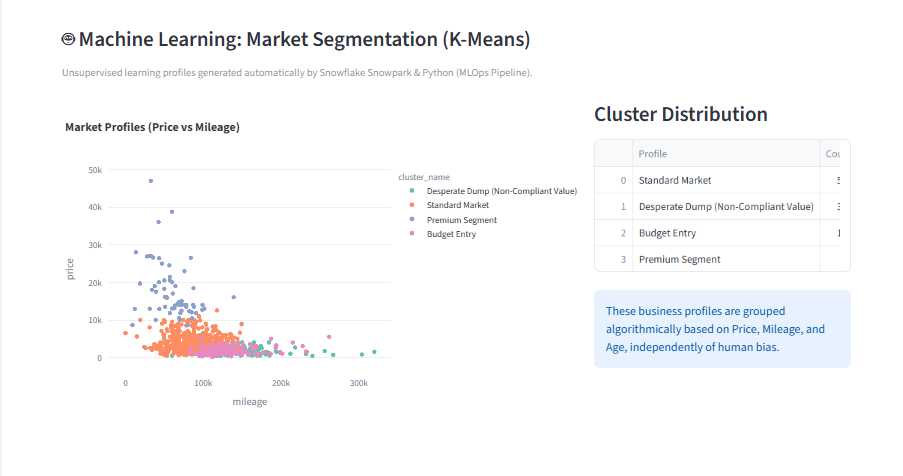
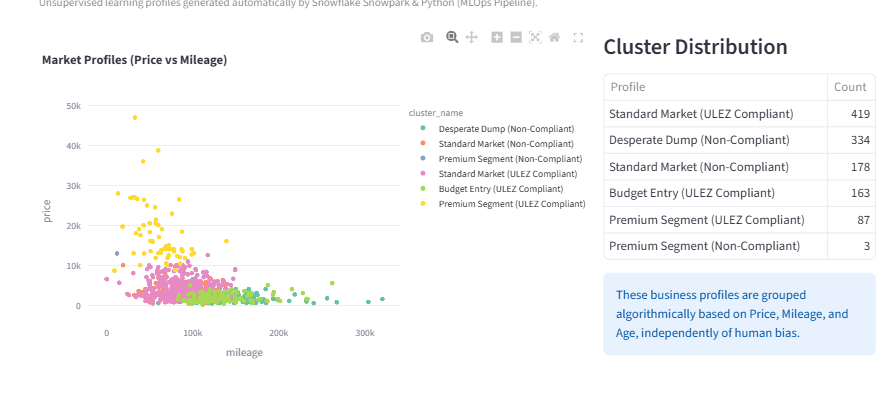
docs: use new K-Means charts showing 6 classes and tabular sample records

diff --git a/README.md b/README.md
@@ -12,7 +12,10 @@ This end-to-end Data Engineering and Analytics project investigates the economic
 *Detailed ranking of top 30 diesel models most affected by the ULEZ expansion.*
 
 ![Machine Learning Market Segmentation](docs/images/ml_clusters.png)
-*K-Means clustering algorithm segmenting the market based on price and mileage profiles.*
+*K-Means clustering algorithm segmenting the market based on price, mileage, and explicitly calculating ULEZ Compliance impact.*
+
+![Machine Learning Sample Profiles](docs/images/ml_cluster_samples.png)
+*Real vehicles dynamically classified into each cluster directly from the Snowflake data warehouse.*
 
 ## 🏗 Data Engineering Architecture
 
